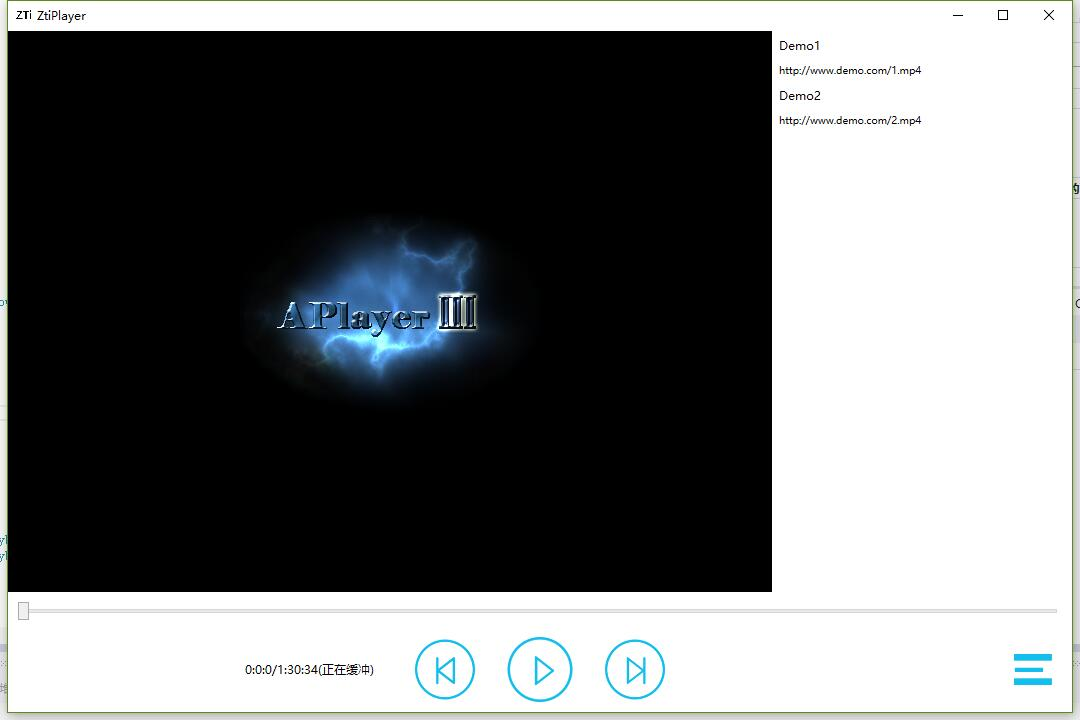
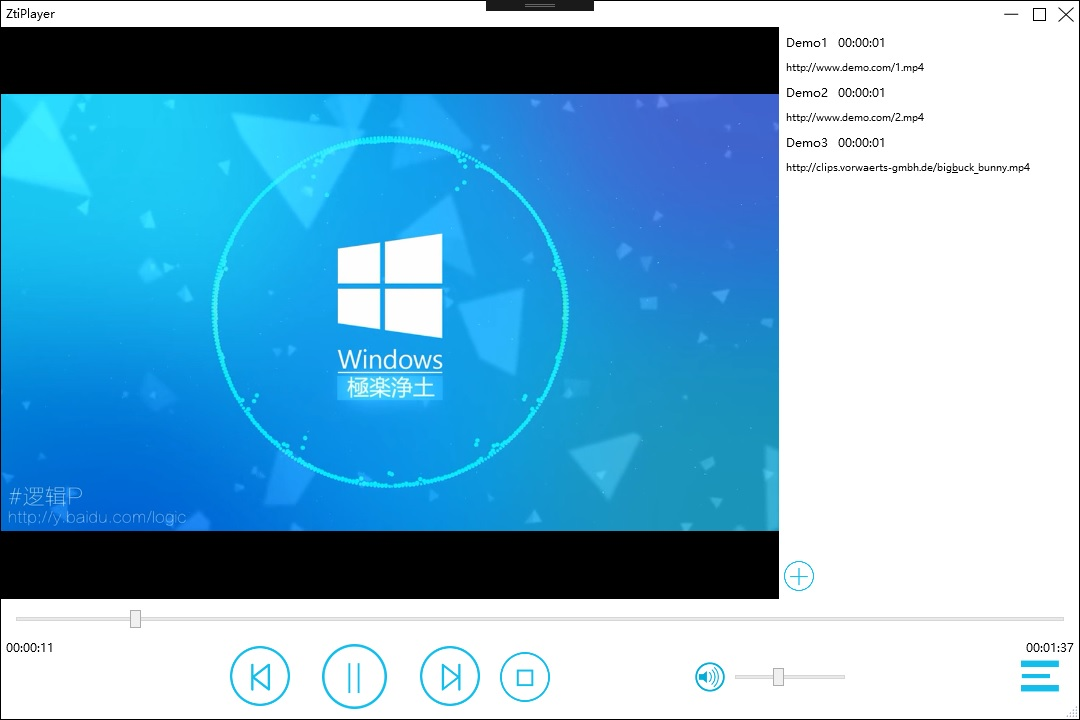
update screenshot

diff --git a/MainWindow.xaml b/MainWindow.xaml
@@ -46,8 +46,11 @@
                     <ListBox.ItemTemplate>
                         <DataTemplate>
                             <StackPanel>
-                                <Label Height="25" VerticalContentAlignment="Center" Content="{Binding Name}" Foreground="{Binding  RelativeSource ={ RelativeSource Self},  Path=Foreground}"/>
-                                <Label Height="25" VerticalContentAlignment="Center" Content="{Binding Url}" FontSize="10" Foreground="{Binding  RelativeSource ={ RelativeSource Self},  Path=Foreground}"/>
+                                <WrapPanel>
+                                    <Label Height="25" VerticalContentAlignment="Center" Content="{Binding Name}" Foreground="{Binding  RelativeSource ={ RelativeSource Self},  Path=Foreground}"/>
+                                    <Label Height="25" VerticalAlignment="Center" Content="{Binding Durationtime}" Foreground="{Binding  RelativeSource ={ RelativeSource Self},  Path=Foreground}" />
+                                </WrapPanel>
+                                <Label Height="25" VerticalContentAlignment="Center" Content="{Binding Path}" FontSize="10" Foreground="{Binding  RelativeSource ={ RelativeSource Self},  Path=Foreground}"/>
                             </StackPanel>
                         </DataTemplate>
                     </ListBox.ItemTemplate>
@@ -94,7 +97,7 @@
 
                     <local:ImageButton Width="50" Height="50" Image="../Icon/stop.png" HorizontalAlignment="Left" Grid.Column="1" x:Name="btn_Stop" Click="btn_Stop_Click" Margin="20,0,0,0"/>
                     <local:ImageButton Width="30" Height="30" Image="../Icon/sound.png" HorizontalAlignment="Left" Grid.Column="1" Margin="215,0,0,0" x:Name="btn_Volume" Click="btn_Volume_Click"/>
-                    <Slider Width="120" HorizontalAlignment="Right" VerticalAlignment="Center" Grid.Column="1" Name="slider_Volume" Minimum="0" Maximum="100" TickFrequency="1" IsSnapToTickEnabled="True" Thumb.DragCompleted="slider_Volume_DragCompleted"/>
+                    <Slider Width="120" HorizontalAlignment="Right" VerticalAlignment="Center" Grid.Column="1" Name="slider_Volume" Minimum="0" Maximum="100" TickFrequency="1" IsSnapToTickEnabled="True" Thumb.DragCompleted="slider_Volume_DragCompleted" ToolTip="{Binding ElementName=slider_Volume,Path=Value}"/>
                 </Grid>
                 
                 

diff --git a/Style/WindowStyle.xaml b/Style/WindowStyle.xaml
@@ -20,10 +20,12 @@
                     </Grid>
                     <ControlTemplate.Triggers>
                         <Trigger Property="IsMouseOver" Value="true">
-                            <Setter Property="Opacity" Value=".5" TargetName="ButtonBackground" />
+                            <Setter Property="Opacity" Value=".5" TargetName="ButtonBorder" />
+                            <Setter Property="Background" Value="LightSkyBlue"/>
                         </Trigger>
                         <Trigger Property="IsPressed"  Value="True">
-                            <Setter Property="Opacity" Value="0.4"  TargetName="ButtonBackground" />
+                            <Setter Property="Opacity" Value="0.4"  TargetName="ButtonBorder" />
+                            <Setter Property="Background" Value="LightSkyBlue"/>
                         </Trigger>
                         <Trigger Property="IsEnabled"   Value="false">
                             <Setter TargetName="TitleButtonContent"  Property="Opacity" Value=".5" />

diff --git a/MainWindow.xaml.cs b/MainWindow.xaml.cs
@@ -136,19 +136,19 @@ namespace ZtiPlayer
                 {
                     Durationtime = new TimeSpan(0,0,1),
                     Name = "Demo1",
-                    Url = "http://www.demo.com/1.mp4"
+                    Path = "http://www.demo.com/1.mp4"
                 },
                 new VideoItem()
                 {
                     Durationtime = new TimeSpan(0,0,1),
                     Name = "Demo2",
-                    Url = "http://www.demo.com/2.mp4"
+                    Path = "http://www.demo.com/2.mp4"
                 },
                 new VideoItem()
                 {
                     Durationtime = new TimeSpan(0,0,1),
                     Name = "Demo3",
-                    Url = "http://clips.vorwaerts-gmbh.de/big_buck_bunny.mp4"
+                    Path = "http://clips.vorwaerts-gmbh.de/big_buck_bunny.mp4"
                 }
             };
 
@@ -295,7 +295,7 @@ namespace ZtiPlayer
                 if(item != null)
                 {
                     //TODO Check if resource is available
-                    player.Open(item.Url);
+                    player.Open(item.Path);
                     player.Play();
                 }
             }
@@ -337,6 +337,7 @@ namespace ZtiPlayer
         {
             player.Close();
             SetProgress(0);
+            this.btn_Pause.SetValue(ImageButton.ImageProperty, "../Icon/play.png");
         }
 
 
@@ -361,7 +362,19 @@ namespace ZtiPlayer
 
         private void btn_Volume_Click(object sender, RoutedEventArgs e)
         {
-
+            int volume = this.player.GetVolume();
+            if(volume == 0)
+            {
+                player.SetVolume(50);
+                slider_Volume.Value = 50;
+                btn_Volume.Image = "../Icon/sound.png";
+            }
+            else
+            {
+                player.SetVolume(0);
+                slider_Volume.Value = 0;
+                btn_Volume.Image = "../Icon/sound_silent.png";
+            }
         }
         #endregion       
     }

diff --git a/Models/VideoItem.cs b/Models/VideoItem.cs
@@ -10,7 +10,12 @@ namespace ZtiPlayer.Models
     {
         public string Name { get; set; }
 
-        public string Url { get; set; }
+        public string Path { get; set; }
+
+        /// <summary>
+        /// 0-Local 1-Web 2-Other
+        /// </summary>
+        public int Type { get; set; }
 
         public TimeSpan Durationtime { get; set; }
 
